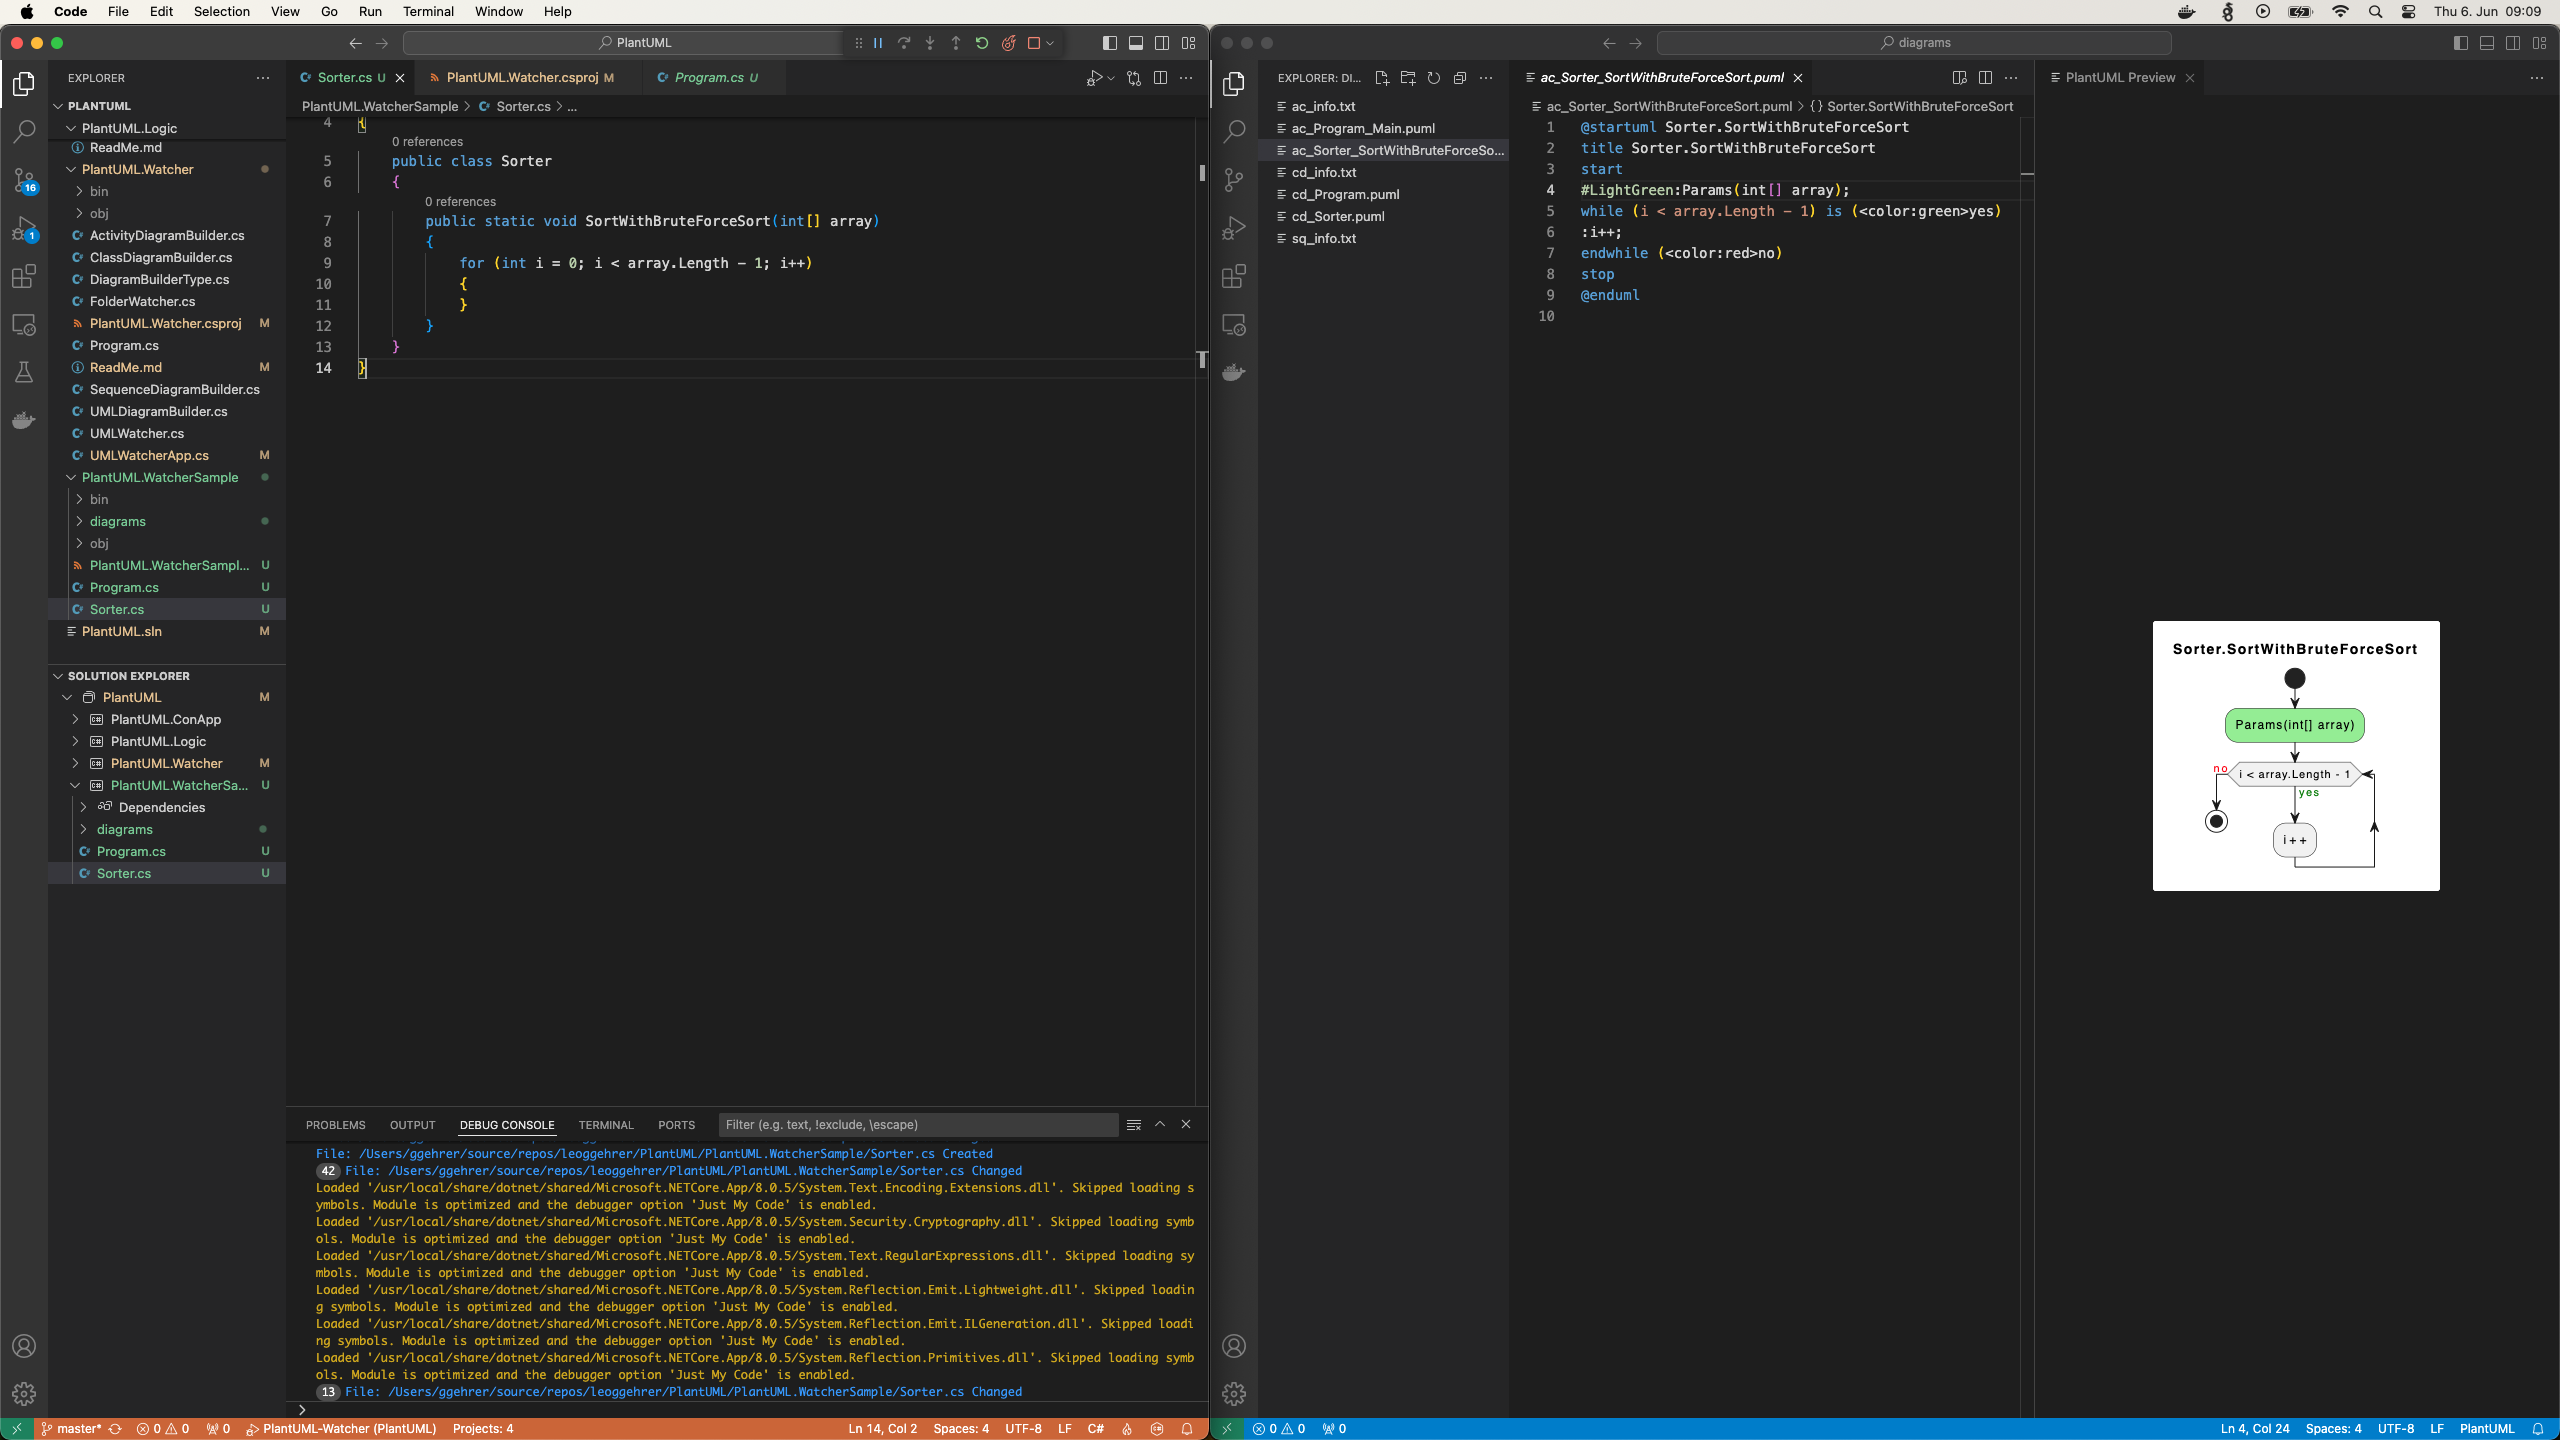
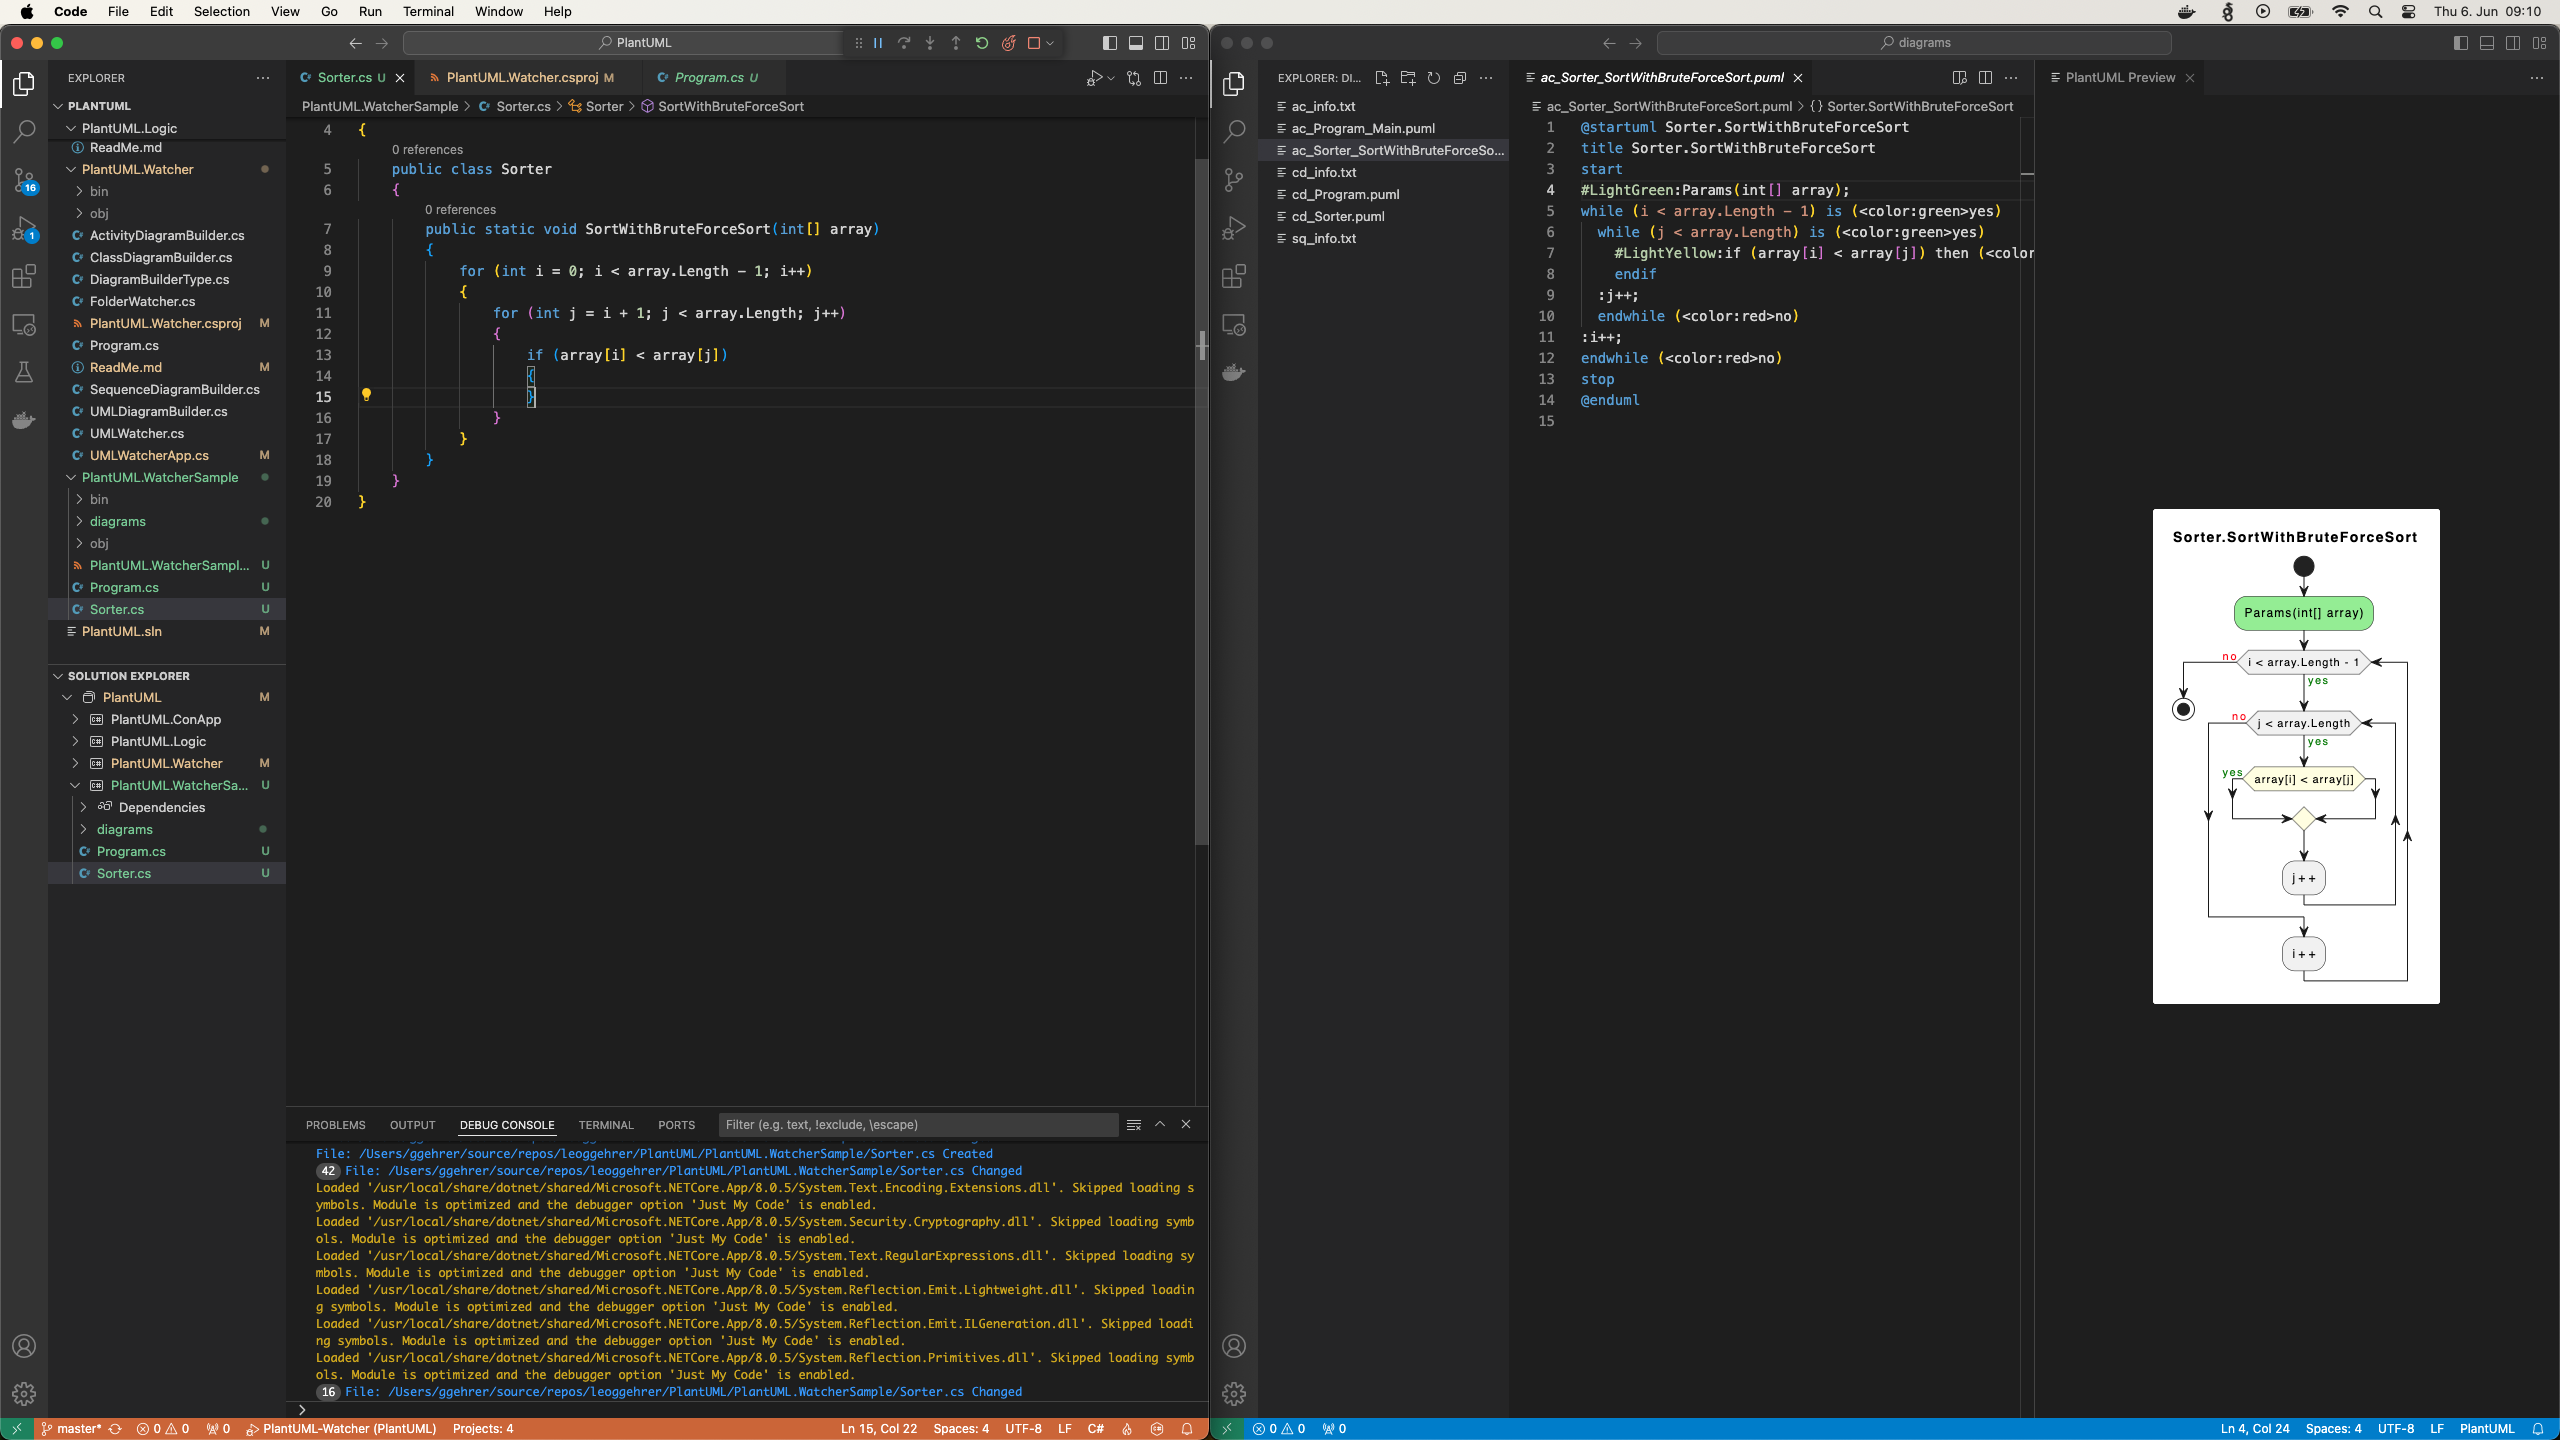
Edit documentation.

diff --git a/PlantUML.Watcher/ReadMe.md b/PlantUML.Watcher/ReadMe.md
@@ -126,22 +126,51 @@ Das sind die wichtigsten Einstellungen für das Arbeiten mit dem *PlantUML.Watch
 
 **Hinweis:** Es können beliebig viele Projekte überwacht werden. Diese sollten allerdings vor Programmende beendet werden.
 
+### Implementierung von **PlantUML.WatcherSample**
+
+Zur Demonstration soll ein einfache Sortieralgorithmus implementiert werden. Sobald eine Änderung im Projekt ausgelöst wird, wird der *Watcher* aktiv und generiert die Diagramme mit dem aktuellen Quelldateien.
+
+![PlantUML.WatcherSample](img/screenshot_02.png)
+
+Im Projektordner wird vom *Watcher* der Ordner *diagrams* erstellt, in welchem die Diagramm-Dateien abgelegt werden. Die Bennenung der Diagramme erfolgt nach folgender Konvention:
+
+- Klassendiagramme
+  - **cd_Klasse.puml**
+
+- Aktivitätsdiagramme
+  - **ac_Klasse_Methode.puml**
+  
+- Sequenzdiagramme
+  - **sq_Klasse_Methode.puml**
+
+Falls mehrere Überladung von Methoden des gleichen Namens existieren, wird die Konvention mit einer Nummerierung ergänzt (z.B.: **'Klasse_Methode_1.puml'**).
+
+### Live-Ansicht der Diagramme
+
+In einer weiteren Instanz von Visual Studio Code kann die aktuelle Generierung der Diagramme angezeigt werden.
+
+![PlantUML.LiveGeneration](img/screenshot_03.png)
+
+Dazu muss das aktuelle Diagramm in Visual Studio Code geöffnet und die entsprechende Vorschau aktiviert werden. Nun können die Änderungen in den Quelldateien mitverfolgt werden.
+
+![PlantUML.LiveGeneration](img/screenshot_04.png)
+
+Jede Änderung in den Quelldateien führt zu einer neuen Generierung der Diagramme und somit zu einer Aktualisierung der grafischen Darstellung des Programmcodes.
+
+![PlantUML.LiveGeneration](img/screenshot_05.png)
+
+In der obigen Abbildung ist das Hinzufügen der inneren *for*-Schleife im Diagramm dargestellt.
+
+![PlantUML.LiveGeneration](img/screenshot_06.png)
+
+Zuletzt ist noch die Vertauschung der Array-Elemente hinzugefügt worden.
 
 ## Bekannte Probleme und Lösungen
 
-- **Problem**: Das Projekt kompiliert nicht.
-  **Lösung**: Stellen Sie sicher, dass alle Abhängigkeiten korrekt installiert sind und dass Sie die richtige .NET SDK-Version verwenden.
-- **Problem**: UML-Diagramme werden nicht aktualisiert.
-  **Lösung**: Überprüfen Sie, ob das überwachte Verzeichnis korrekt angegeben ist und ob Schreibberechtigungen vorhanden sind.
-
-## Dateien und Struktur
-
-- **ActivityDiagramBuilder.cs**: Enthält die Logik zur Erstellung von Aktivitätsdiagrammen.
-- **ClassDiagramBuilder.cs**: Enthält die Logik zur Erstellung von Klassendiagrammen.
-- **DiagramBuilderType.cs**: Definiert die verschiedenen Typen von Diagrammerstellern.
-- **FolderWatcher.cs**: Überwacht das Verzeichnis auf Änderungen.
-- **Program.cs**: Der Einstiegspunkt des Programms.
-- **SequenceDiagramBuilder.cs**: Enthält die Logik zur Erstellung von Sequenzdiagrammen.
-- **UMLDiagramBuilder.cs**: Basisklasse für die verschiedenen Diagrammersteller.
-- **UMLWatcher.cs**: Überwacht die Dateien und erstellt UML-Diagramme.
-- **UMLWatcherApp.cs**: Anwendungskonfiguration und -start.
+- **Problem**: Die UML-Diagramme werden nicht erstellt oder aktualisiert.
+  **Ursache A**: Der Watcher wurde nicht gestartet.
+  **Lösung A**: Starten Sie in der Watcher-Konsole den Watcher für ihr Projekt.
+  **Ursache B**: 'Auto Save' in Visual Studio Code ist nicht aktiviert.
+  **Lösung B**: Aktivieren Sie die Funktion 'Auto Save' im Menü **File** oder Lösen Sie die Speicherung manuell aus (STRG + S).
+- **Problem**: Das UML-Diagramm wird nicht angezeigt.
+  **Lösung**: Überprüfen Sie, ob die Erweiterung **PlantUML** installiert ist.
